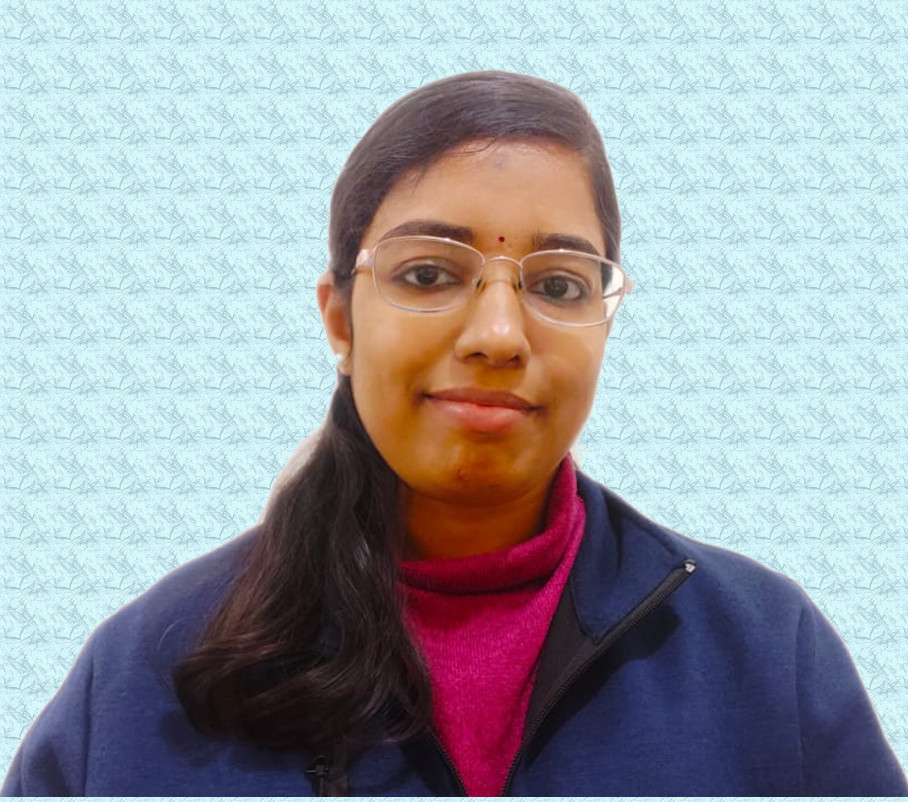
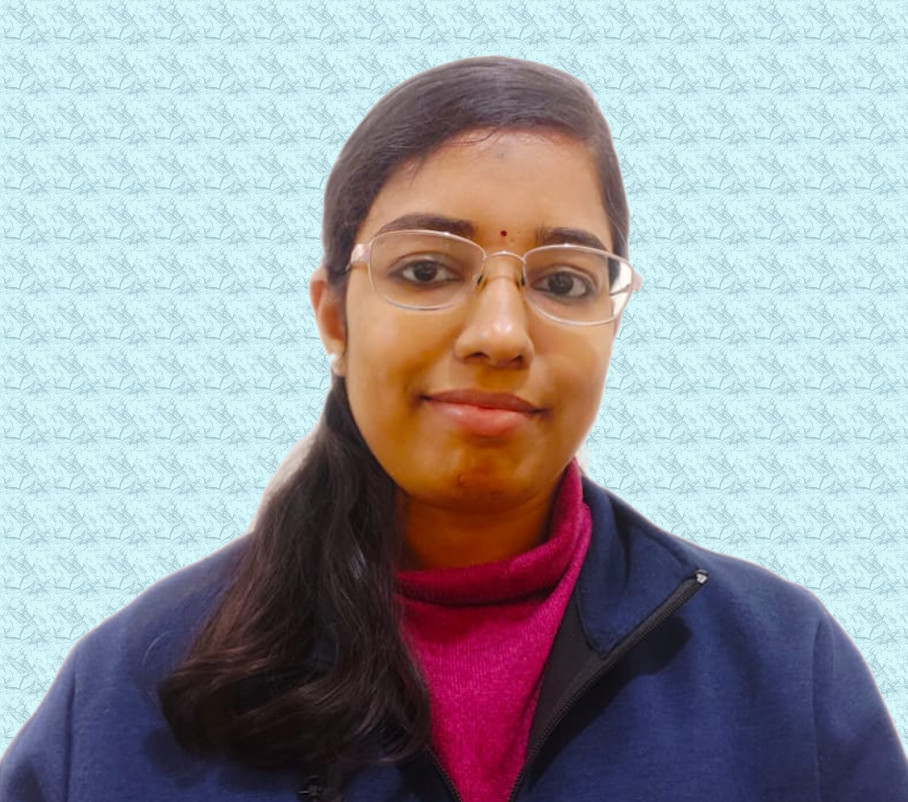
update

diff --git a/project/example/index.html b/project/example/index.html
@@ -1034,7 +1034,7 @@
   <div class="media author-card content-widget-hr">
     
       
-      <img class="avatar mr-3 avatar-circle" src="/authors/admin/avatar_hu24186e9c9ffd2dce863e090e41f645f0_221540_270x270_fill_q75_lanczos_center.jpg" alt="S Mathimalar">
+      <img class="avatar mr-3 avatar-circle" src="/authors/admin/avatar_hu98514a760661cdc3817dcb97e5482fb5_214303_270x270_fill_q75_lanczos_center.jpg" alt="S Mathimalar">
     
 
     <div class="media-body">

diff --git a/publication/char-neut-trans/index.html b/publication/char-neut-trans/index.html
@@ -1063,7 +1063,7 @@
   <div class="media author-card content-widget-hr">
     
       
-      <img class="avatar mr-3 avatar-circle" src="/authors/admin/avatar_hu24186e9c9ffd2dce863e090e41f645f0_221540_270x270_fill_q75_lanczos_center.jpg" alt="S Mathimalar">
+      <img class="avatar mr-3 avatar-circle" src="/authors/admin/avatar_hu98514a760661cdc3817dcb97e5482fb5_214303_270x270_fill_q75_lanczos_center.jpg" alt="S Mathimalar">
     
 
     <div class="media-body">

diff --git a/publication/dev-ntdge-low-temp/index.html b/publication/dev-ntdge-low-temp/index.html
@@ -1063,7 +1063,7 @@
   <div class="media author-card content-widget-hr">
     
       
-      <img class="avatar mr-3 avatar-circle" src="/authors/admin/avatar_hu24186e9c9ffd2dce863e090e41f645f0_221540_270x270_fill_q75_lanczos_center.jpg" alt="S Mathimalar">
+      <img class="avatar mr-3 avatar-circle" src="/authors/admin/avatar_hu98514a760661cdc3817dcb97e5482fb5_214303_270x270_fill_q75_lanczos_center.jpg" alt="S Mathimalar">
     
 
     <div class="media-body">

diff --git a/publication/jltp2016/index.html b/publication/jltp2016/index.html
@@ -1071,7 +1071,7 @@
   <div class="media author-card content-widget-hr">
     
       
-      <img class="avatar mr-3 avatar-circle" src="/authors/admin/avatar_hu24186e9c9ffd2dce863e090e41f645f0_221540_270x270_fill_q75_lanczos_center.jpg" alt="S Mathimalar">
+      <img class="avatar mr-3 avatar-circle" src="/authors/admin/avatar_hu98514a760661cdc3817dcb97e5482fb5_214303_270x270_fill_q75_lanczos_center.jpg" alt="S Mathimalar">
     
 
     <div class="media-body">

diff --git a/publication/npj-2020/index.html b/publication/npj-2020/index.html
@@ -1061,7 +1061,7 @@
   <div class="media author-card content-widget-hr">
     
       
-      <img class="avatar mr-3 avatar-circle" src="/authors/admin/avatar_hu24186e9c9ffd2dce863e090e41f645f0_221540_270x270_fill_q75_lanczos_center.jpg" alt="S Mathimalar">
+      <img class="avatar mr-3 avatar-circle" src="/authors/admin/avatar_hu98514a760661cdc3817dcb97e5482fb5_214303_270x270_fill_q75_lanczos_center.jpg" alt="S Mathimalar">
     
 
     <div class="media-body">

diff --git a/publication/phys_comm/index.html b/publication/phys_comm/index.html
@@ -1065,7 +1065,7 @@
   <div class="media author-card content-widget-hr">
     
       
-      <img class="avatar mr-3 avatar-circle" src="/authors/admin/avatar_hu24186e9c9ffd2dce863e090e41f645f0_221540_270x270_fill_q75_lanczos_center.jpg" alt="S Mathimalar">
+      <img class="avatar mr-3 avatar-circle" src="/authors/admin/avatar_hu98514a760661cdc3817dcb97e5482fb5_214303_270x270_fill_q75_lanczos_center.jpg" alt="S Mathimalar">
     
 
     <div class="media-body">

diff --git a/publication/rad-imp-neu-trans/index.html b/publication/rad-imp-neu-trans/index.html
@@ -1063,7 +1063,7 @@
   <div class="media author-card content-widget-hr">
     
       
-      <img class="avatar mr-3 avatar-circle" src="/authors/admin/avatar_hu24186e9c9ffd2dce863e090e41f645f0_221540_270x270_fill_q75_lanczos_center.jpg" alt="S Mathimalar">
+      <img class="avatar mr-3 avatar-circle" src="/authors/admin/avatar_hu98514a760661cdc3817dcb97e5482fb5_214303_270x270_fill_q75_lanczos_center.jpg" alt="S Mathimalar">
     
 
     <div class="media-body">

diff --git a/publication/sci_inst_2021/index.html b/publication/sci_inst_2021/index.html
@@ -1079,7 +1079,7 @@
   <div class="media author-card content-widget-hr">
     
       
-      <img class="avatar mr-3 avatar-circle" src="/authors/admin/avatar_hu24186e9c9ffd2dce863e090e41f645f0_221540_270x270_fill_q75_lanczos_center.jpg" alt="S Mathimalar">
+      <img class="avatar mr-3 avatar-circle" src="/authors/admin/avatar_hu98514a760661cdc3817dcb97e5482fb5_214303_270x270_fill_q75_lanczos_center.jpg" alt="S Mathimalar">
     
 
     <div class="media-body">

diff --git a/publication/thesis/index.html b/publication/thesis/index.html
@@ -1056,7 +1056,7 @@
   <div class="media author-card content-widget-hr">
     
       
-      <img class="avatar mr-3 avatar-circle" src="/authors/admin/avatar_hu24186e9c9ffd2dce863e090e41f645f0_221540_270x270_fill_q75_lanczos_center.jpg" alt="S Mathimalar">
+      <img class="avatar mr-3 avatar-circle" src="/authors/admin/avatar_hu98514a760661cdc3817dcb97e5482fb5_214303_270x270_fill_q75_lanczos_center.jpg" alt="S Mathimalar">
     
 
     <div class="media-body">

diff --git a/talk/development-of-ntd-ge-sensors-for-low-temperature-thermometry-for-neutrinoless-double-beta-decay/index.html b/talk/development-of-ntd-ge-sensors-for-low-temperature-thermometry-for-neutrinoless-double-beta-decay/index.html
@@ -1012,7 +1012,7 @@
   <div class="media author-card content-widget-hr">
     
       
-      <img class="avatar mr-3 avatar-circle" src="/authors/admin/avatar_hu24186e9c9ffd2dce863e090e41f645f0_221540_270x270_fill_q75_lanczos_center.jpg" alt="S Mathimalar">
+      <img class="avatar mr-3 avatar-circle" src="/authors/admin/avatar_hu98514a760661cdc3817dcb97e5482fb5_214303_270x270_fill_q75_lanczos_center.jpg" alt="S Mathimalar">
     
 
     <div class="media-body">

diff --git a/talk/ntd-ge-sensors-for-low-temperature-thermometry-for-neutrinoless-double-beta-decay/index.html b/talk/ntd-ge-sensors-for-low-temperature-thermometry-for-neutrinoless-double-beta-decay/index.html
@@ -1014,7 +1014,7 @@
   <div class="media author-card content-widget-hr">
     
       
-      <img class="avatar mr-3 avatar-circle" src="/authors/admin/avatar_hu24186e9c9ffd2dce863e090e41f645f0_221540_270x270_fill_q75_lanczos_center.jpg" alt="S Mathimalar">
+      <img class="avatar mr-3 avatar-circle" src="/authors/admin/avatar_hu98514a760661cdc3817dcb97e5482fb5_214303_270x270_fill_q75_lanczos_center.jpg" alt="S Mathimalar">
     
 
     <div class="media-body">

diff --git a/talk/phd-defence/index.html b/talk/phd-defence/index.html
@@ -1012,7 +1012,7 @@
   <div class="media author-card content-widget-hr">
     
       
-      <img class="avatar mr-3 avatar-circle" src="/authors/admin/avatar_hu24186e9c9ffd2dce863e090e41f645f0_221540_270x270_fill_q75_lanczos_center.jpg" alt="S Mathimalar">
+      <img class="avatar mr-3 avatar-circle" src="/authors/admin/avatar_hu98514a760661cdc3817dcb97e5482fb5_214303_270x270_fill_q75_lanczos_center.jpg" alt="S Mathimalar">
     
 
     <div class="media-body">
